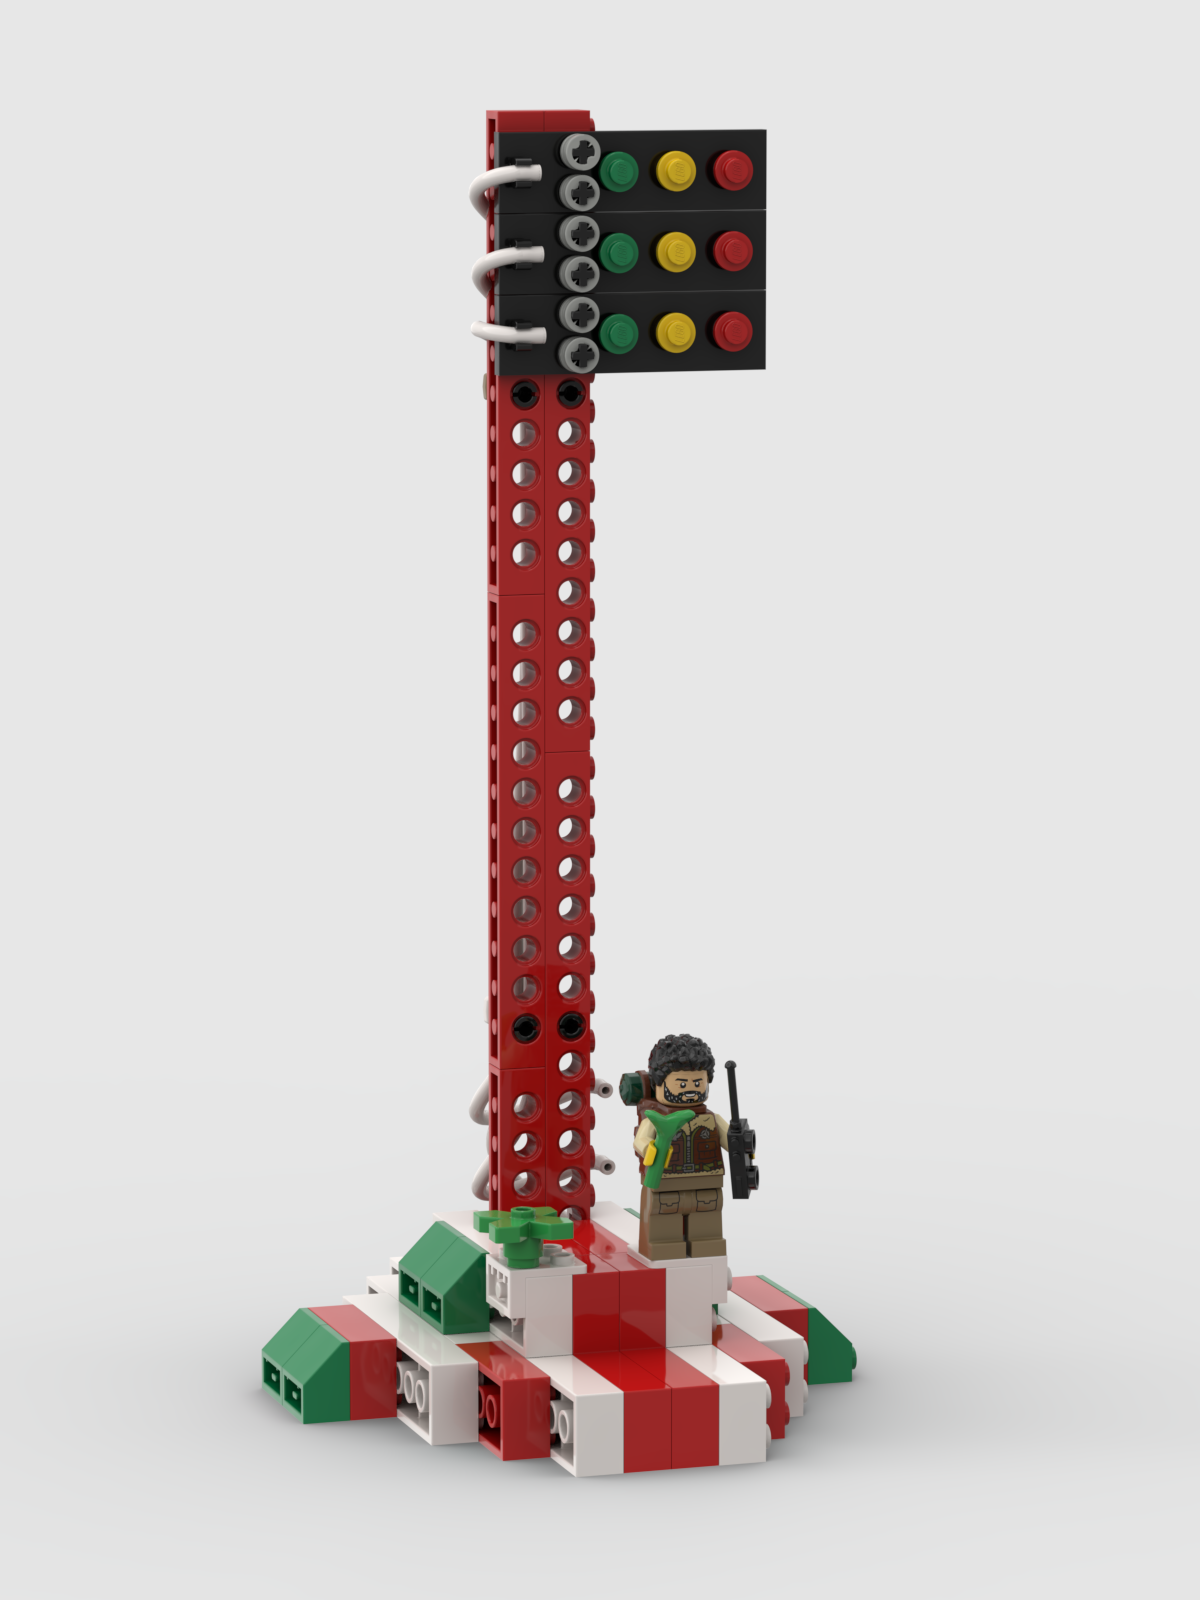
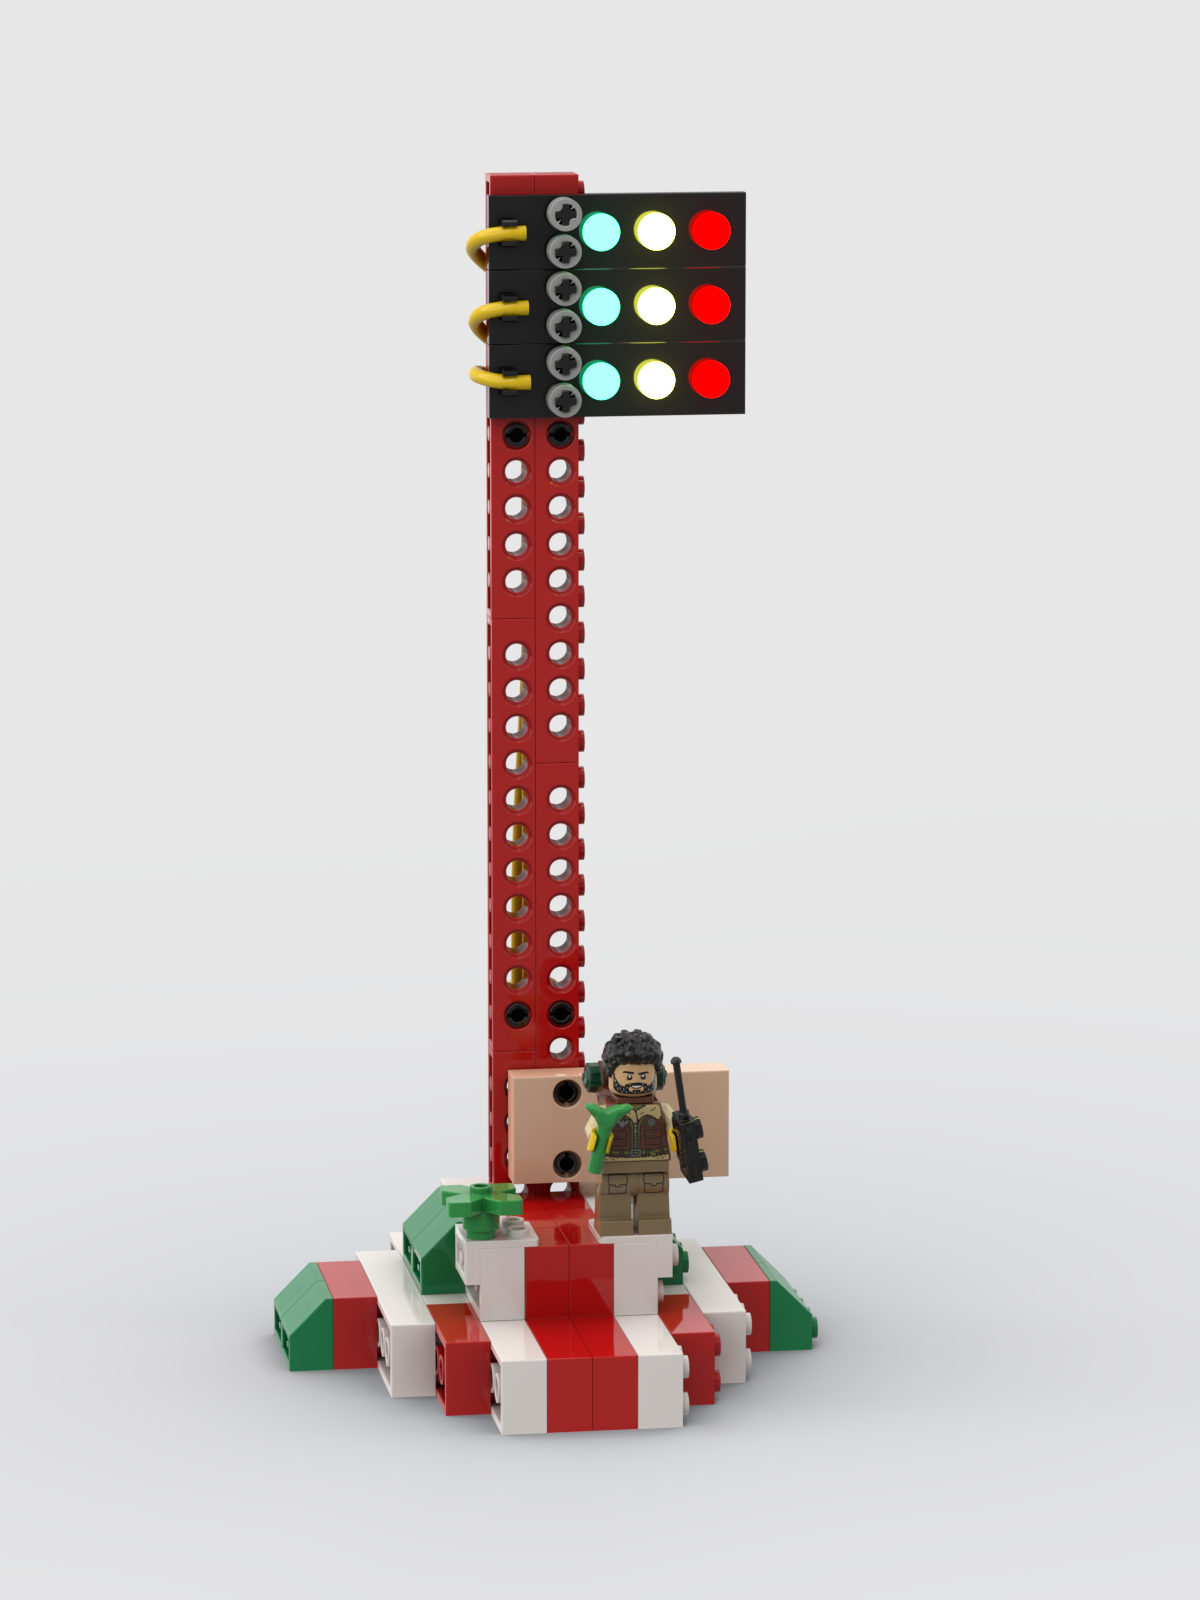
docs: refine traffic-light parts list, update brick model, prune unused images
- TRAFFIC_LIGHT.md: fold the shopping list into §2 with sourcing notes
  (hellostem lego-mount lights, buy traffic lights pre-wired, PbHub Grove
  cable included); drop the duplicate top section.
- bricks: update design.io, add design.csv parts list, remove design.png.
- prune unreferenced images (IMG_6969.jpg, device.jpg).

Changed region(s): [[0.2158, 0.0625, 0.74, 0.9375]]

diff --git a/docs/TRAFFIC_LIGHT.md b/docs/TRAFFIC_LIGHT.md
@@ -10,23 +10,6 @@ REACT 反应竞速游戏复用为发车灯。本文件汇总**经硬件自检验
 
 ---
 
-## 🛒 配件清单（购物清单）
-
-| 配件 | 数量 | 用途 |
-|---|---|---|
-| M5StickS3（StickS3） | 1 | 主机（ESP32-S3） |
-| M5Stack Clip B | 1 | 桌面支架/夹持 |
-| Unit PbHub v1.1 | 1 | I2C 扩展，驱动交通灯 |
-| HS-F05-L 交通灯 LED 模块 | 3 | 红/黄/绿三色灯 |
-| Grove 线（HY2.0-4P） | 1 | StickS3 ↔ PbHub，防呆直插 |
-| 杜邦线（母-母） | ~10 | PbHub 通道 ↔ 交通灯排针 |
-| 限流电阻 220~330Ω | 9（按需） | 模块若无板载限流时每路串一颗（见 §8） |
-| 乐高 Technic 件 | 若干 | 旗杆/底座（清单见 §3 与 `bricks/`） |
-
-> 详细规格见 [§2 物料（BOM）](#2-物料bom)；搭建用乐高件见 §3。
-
----
-
 ## 0. 成品效果
 
 ![成品](IMG_6979.jpg)
@@ -55,15 +38,18 @@ PbHub v1.1 (I2C 从机, 地址 0x61)
 
 ## 2. 物料（BOM）
 
-| 件 | 说明 |
-|---|---|
-| StickS3 | M5StickS3（ESP32-S3，8MB/8MB，135×240，BMI270） |
-| PbHub | Unit PbHub v1.1（STM32F030，I2C 0x61，支持数字读写/PWM/WS2812） |
-| 交通灯 ×3 | **HS-F05-L** LED 模块，55×16mm，4 针**排针顺序 GND·GR·YE·RE**，共阴，每路一颗 LED；板上 2 个 Ø4.7mm 安装孔，孔距 8mm（= 乐高 Technic 孔，可直接用十字轴固定） |
-| Grove 线 ×1 | StickS3↔PbHub，HY2.0-4P，防呆直插 |
-| 杜邦线 | PbHub 通道口 ↔ 交通灯排针 |
+| 配件 | 数量 | 用途 |
+|---|---|---|
+| M5StickS3 | 1 | 主机（ESP32-S3） |
+| M5Stack Clip B | 1 | 桌面支架/夹持，固定主机到积木上 |
+| Unit PbHub v1.1 | 1 | I2C 扩展，驱动交通灯 |
+| Grove 线（HY2.0-4P） | 1 | StickS3 ↔ PbHub，PbHub自带 |
+| HS-F05-L 交通灯 LED 模块 | 3 | 红/黄/绿三色灯，来自hellostem，选乐高插孔款 |
+| PH2.0-4P - 杜邦（母）线 | 3 | HS-F05-L，买交通灯带线款 |
+| Grove（HY2.0-4P）- 杜邦(公)线 | 3 | PbHub 通道 ↔ 交通灯排针，随便买 |
+| 乐高 Technic 件 | 若干 | 旗杆/底座（清单见 §3 与 `bricks/`） |
 
----
+> 详细规格见 [§2 物料（BOM）](#2-物料bom)；搭建用乐高件见 §3。
 
 ## 3. 乐高搭建方案
 
@@ -72,7 +58,7 @@ PbHub v1.1 (I2C 从机, 地址 0x61)
 ![搭建图](design.png)
 
 结构（自下而上）：
-- **底座小车**：白/红/浅绿砖体 + 乐高小人（乐高乐园限定摄影师人仔），PbHub 固定在底座上。
+- **底座**：白/红/浅绿砖体 + 乐高小人（乐高乐园限定摄影师人仔），PbHub 固定在底座上。
 - **旗杆（桅杆）**：两根**并排竖立的红色 Technic 带孔梁**——
   - 右轨 = `3703`(1×16) ×2；左轨 = `3702`(1×8) + `3895`(1×12) ×2，接缝错开更结实；
   - 竖立梁宽 24 LDU，两轨**贴合**（中心相距 24 LDU = 9.6mm；同梁相邻孔为 8mm）。
@@ -81,10 +67,17 @@ PbHub v1.1 (I2C 从机, 地址 0x61)
 - **背面理线**：从顶向下数第 7 孔，**背面**插 **`18651`（Axle 2L + 摩擦销）** + 衬套，
   配 **`49283`（Technic Axle & Wire Connector / 理线夹）**夹住线束。
 - **交通灯模块**：3 块 HS-F05-L 上下叠（每块横排 绿-黄-红），用十字轴穿过模块的
-  Ø4.7mm 孔 + 旗杆梁的 Technic 孔固定。模块自定义件见 `bricks/HS-F05-L.part`。
+  Ø4.7mm 孔 + 旗杆梁的 Technic 孔固定。
 
 > 提示：HS-F05-L 的孔距 = 标准乐高 Technic 孔距（8mm，Ø4.8mm），所以电子模块能直接
 > 用乐高十字轴/销固定到带孔梁上，无需额外支架。
+
+
+![正面实拍](IMG_6979.jpg)
+
+背面线材较多。Grove线刚好可以塞入乐高科技的理线夹。背面设计了线材收纳结构，可以收纳其他线材。HY2.0有7根多余的线，可以电胶布绝缘后塞到底部，经过带孔梁的孔放进底部的空间。
+
+![背部理线](IMG_6981.jpg)
 
 ---
 